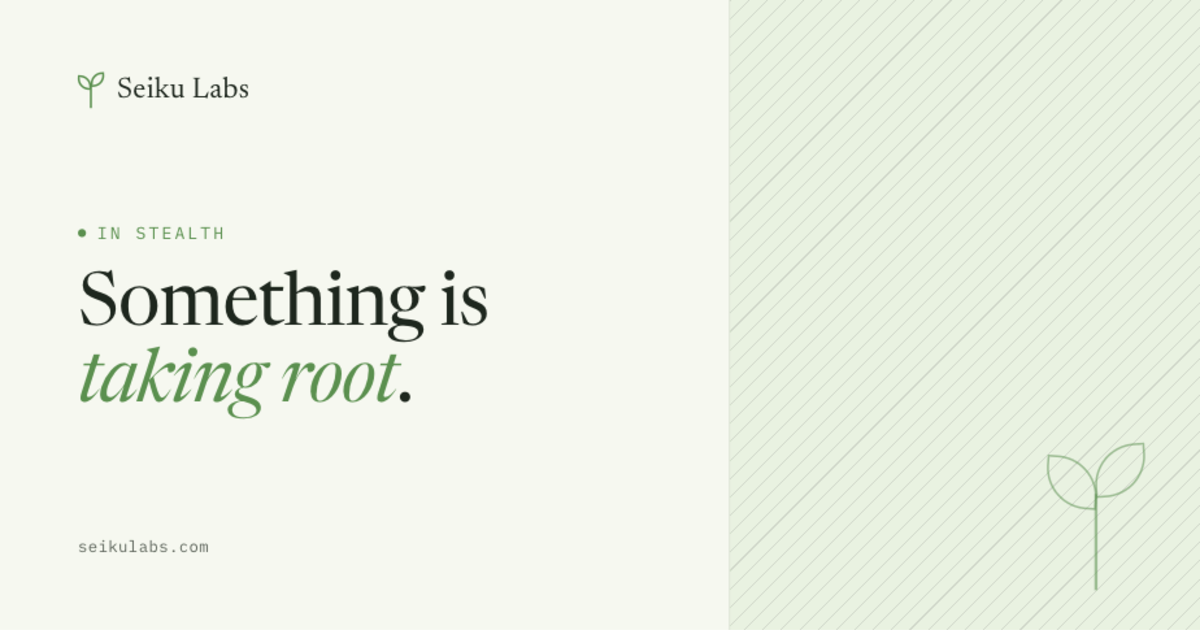
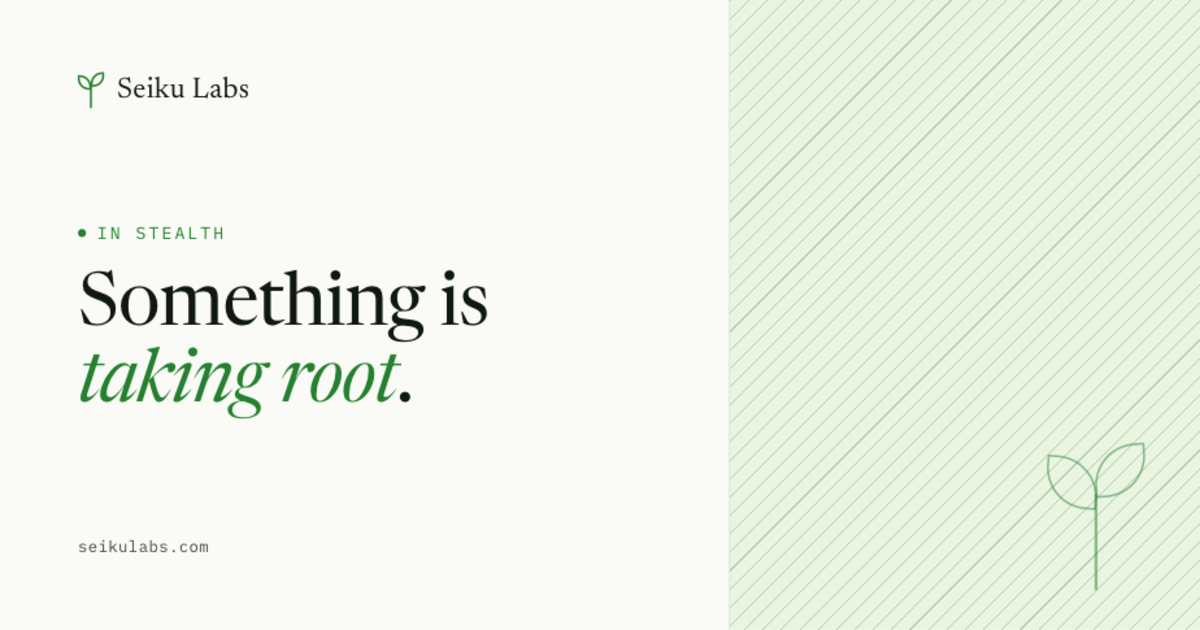
Refresh site design: deeper green palette, hero scrim, updated OG image
Darken and saturate the green accent across index.html and 404.html,
raise hero image saturation, and add a bottom gradient scrim to keep
text legible over the less-muted photo.

Changed region(s): [[0.0617, 0.5429, 0.3392, 0.6635], [0.0617, 0.3619, 0.185, 0.3921], [0.0617, 0.1206, 0.0925, 0.1508]]

diff --git a/404.html b/404.html
@@ -13,9 +13,9 @@
   * { box-sizing: border-box; }
   html, body { margin: 0; padding: 0; }
   body {
-    background: oklch(0.975 0.01 120);
+    background: oklch(0.985 0.006 112);
     font-family: 'Newsreader', Georgia, serif;
-    color: oklch(0.27 0.02 145);
+    color: oklch(0.21 0.02 150);
     -webkit-font-smoothing: antialiased;
     min-height: 100vh;
     display: flex;
@@ -23,25 +23,25 @@
     justify-content: center;
     padding: 32px;
   }
-  a { color: oklch(0.6 0.11 140); text-decoration: none; }
-  a:hover { color: oklch(0.51 0.11 140); }
+  a { color: oklch(0.53 0.145 145); text-decoration: none; }
+  a:hover { color: oklch(0.43 0.145 145); }
 </style>
 </head>
 <body>
   <div style="display:flex; flex-direction:column; align-items:center; text-align:center; max-width:520px;">
     <span style="position:relative; display:inline-block; width:30px; height:40px; margin-bottom:28px;">
-      <span style="position:absolute; left:50%; bottom:0; transform:translateX(-50%); width:2.4px; height:25px; background:oklch(0.6 0.11 140);"></span>
-      <span style="position:absolute; left:50%; top:2px; width:16px; height:16px; border:2px solid oklch(0.6 0.11 140); border-radius:0 80% 0 80%; transform-origin:bottom right; transform:translateX(-100%) rotate(4deg);"></span>
-      <span style="position:absolute; left:50%; top:-1px; width:16px; height:16px; border:2px solid oklch(0.6 0.11 140); border-radius:80% 0 80% 0; transform-origin:bottom left; transform:rotate(-4deg);"></span>
+      <span style="position:absolute; left:50%; bottom:0; transform:translateX(-50%); width:2.4px; height:25px; background:oklch(0.53 0.145 145);"></span>
+      <span style="position:absolute; left:50%; top:2px; width:16px; height:16px; border:2px solid oklch(0.53 0.145 145); border-radius:0 80% 0 80%; transform-origin:bottom right; transform:translateX(-100%) rotate(4deg);"></span>
+      <span style="position:absolute; left:50%; top:-1px; width:16px; height:16px; border:2px solid oklch(0.53 0.145 145); border-radius:80% 0 80% 0; transform-origin:bottom left; transform:rotate(-4deg);"></span>
     </span>
-    <div style="font-family:'IBM Plex Mono',monospace; font-size:12.5px; letter-spacing:0.16em; color:oklch(0.6 0.11 140); margin-bottom:20px;">404 &middot; NOT FOUND</div>
-    <h1 style="font-size:clamp(34px,5vw,50px); line-height:1.06; font-weight:400; letter-spacing:-0.015em; margin:0 0 20px; color:oklch(0.26 0.02 145);">
-      This page is still<br><em style="font-style:italic; color:oklch(0.6 0.11 140);">taking root</em>.
+    <div style="font-family:'IBM Plex Mono',monospace; font-size:12.5px; letter-spacing:0.16em; color:oklch(0.53 0.145 145); margin-bottom:20px;">404 &middot; NOT FOUND</div>
+    <h1 style="font-size:clamp(34px,5vw,50px); line-height:1.06; font-weight:400; letter-spacing:-0.015em; margin:0 0 20px; color:oklch(0.2 0.02 150);">
+      This page is still<br><em style="font-style:italic; color:oklch(0.53 0.145 145);">taking root</em>.
     </h1>
-    <p style="font-size:18px; line-height:1.6; font-weight:300; color:oklch(0.45 0.02 145); margin:0 0 32px;">
+    <p style="font-size:18px; line-height:1.6; font-weight:300; color:oklch(0.37 0.02 150); margin:0 0 32px;">
       The page you're looking for isn't here yet.
     </p>
-    <a href="/" style="font-family:'IBM Plex Mono',monospace; font-size:13px; letter-spacing:0.02em; color:oklch(0.3 0.02 145); border:1px solid oklch(0.6 0.11 140); padding:12px 22px; border-radius:5px; font-weight:500;">&larr; Back to seikulabs.com</a>
+    <a href="/" style="font-family:'IBM Plex Mono',monospace; font-size:13px; letter-spacing:0.02em; color:oklch(0.23 0.02 150); border:1px solid oklch(0.53 0.145 145); padding:12px 22px; border-radius:5px; font-weight:500;">&larr; Back to seikulabs.com</a>
   </div>
 </body>
 </html>